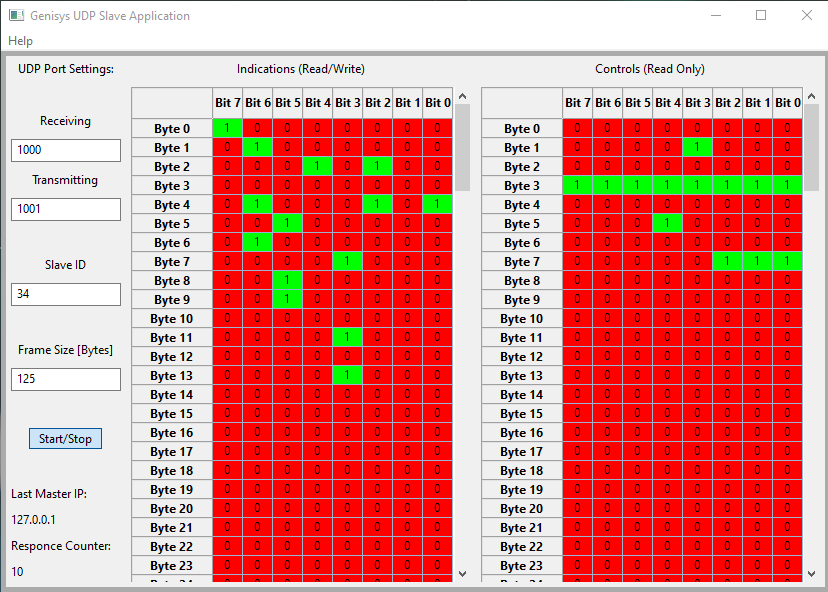
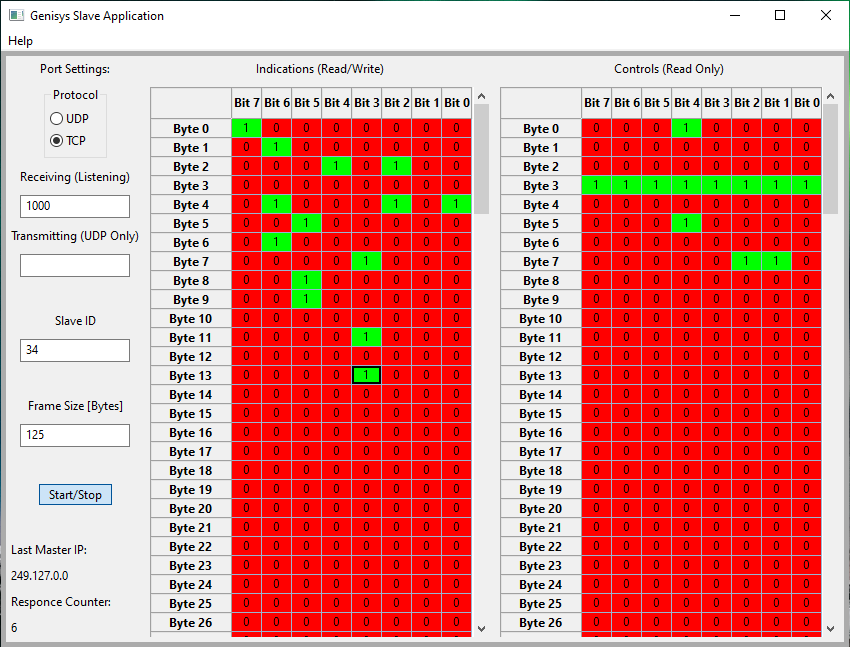
Added new TCP server lib functions to simulator GUI app. Basic testing of new TCP server logic (Tests were good), Fixed small bugs with TCP logic, Updated unit test app with TCP option (Unit test app not tested). Updated readme with new TCP information.

diff --git a/GenisysSlave-Lib/src/NetworkGenisysSlave.cpp b/GenisysSlave-Lib/src/NetworkGenisysSlave.cpp
@@ -17,6 +17,7 @@ namespace LSY
 		// WSA
 		is_wsa_started_ = false;
 		server_socket_ = INVALID_SOCKET;
+		client_socket_ = INVALID_SOCKET;
 
 		// Buffer
 		bytes_received = 0;
@@ -92,7 +93,7 @@ namespace LSY
 		{
 			// Put the TCP socket into listen mode
 			// backlog = 1 means the socket will only listin for one connection
-			if (listen(server_socket_, 1))
+			if (listen(server_socket_, 0))
 			{
 				Logging::LogErrorF("NetworkGenisysSlave::StartServer: [%d] Socket Listen Failed", configuration_.server_port_);
 				LogWSAError();
@@ -132,12 +133,9 @@ namespace LSY
 			return false;
 		}
 
-
-
-		static SOCKET client_socket_ = INVALID_SOCKET;		// For TCP use only
+		
 		struct sockaddr_in sender_addr;						// Used to store remote machines address
 		int sender_addr_size = sizeof(sender_addr);
-
 
 
 		if (configuration_.connection_type_ == NetworkGenisysSlave::Config::CONNECTIONTYPE::TCP)
@@ -154,6 +152,14 @@ namespace LSY
 			{
 				return false;
 			}
+
+			// Check if there are any additional pending connections & reject the socket
+			// We reject the socket because we will only accept one connection at a time for now
+			SOCKET temp_socket_ = INVALID_SOCKET;
+			temp_socket_ = accept(server_socket_, nullptr, nullptr);
+			if (temp_socket_ != INVALID_SOCKET)
+				closesocket(temp_socket_);
+
 
 			// Get TCP Message From Sender (Genisys Master)
 			// Add a client timeout code check here, if data not recived for a while?
@@ -284,10 +290,21 @@ namespace LSY
 			if (closesocket(server_socket_) == SOCKET_ERROR)
 			{
 				// Error - Unable To Close Socket
-				Logging::LogErrorF("NetworkGenisysSlave::ShutdownServer: [%d] Unable To Close Socket", configuration_.server_port_);
+				Logging::LogErrorF("NetworkGenisysSlave::ShutdownServer: [%d] Unable To Close Server Socket", configuration_.server_port_);
 				LogWSAError();
 			}
 			server_socket_ = INVALID_SOCKET;
+		}
+
+		if (client_socket_ != INVALID_SOCKET)
+		{
+			if (closesocket(client_socket_) == SOCKET_ERROR)
+			{
+				// Error - Unable To Close Socket
+				Logging::LogErrorF("NetworkGenisysSlave::ShutdownServer: [%d] Unable To Close Client TCP Socket", configuration_.server_port_);
+				LogWSAError();
+			}
+			client_socket_ = INVALID_SOCKET;
 		}
 
 

diff --git a/GenisysSlave-Simulator/cFrame.cpp b/GenisysSlave-Simulator/cFrame.cpp
@@ -30,22 +30,24 @@ cFrame::cFrame( wxWindow* parent, wxWindowID id, const wxString& title, const wx
 	wxBoxSizer* bSizer7;
 	bSizer7 = new wxBoxSizer( wxVERTICAL );
 
-	m_staticText4 = new wxStaticText( m_panel1, wxID_ANY, wxT("UDP Port Settings:"), wxDefaultPosition, wxDefaultSize, 0 );
+	m_staticText4 = new wxStaticText( m_panel1, wxID_ANY, wxT("Port Settings:"), wxDefaultPosition, wxDefaultSize, 0 );
 	m_staticText4->Wrap( -1 );
 	bSizer7->Add( m_staticText4, 0, wxALIGN_CENTER|wxALL, 5 );
 
-	m_staticText7 = new wxStaticText( m_panel1, wxID_ANY, wxEmptyString, wxDefaultPosition, wxDefaultSize, 0 );
-	m_staticText7->Wrap( -1 );
-	bSizer7->Add( m_staticText7, 0, wxALIGN_CENTER|wxALL, 5 );
+	wxString m_radioBox1Choices[] = { wxT("UDP"), wxT("TCP") };
+	int m_radioBox1NChoices = sizeof( m_radioBox1Choices ) / sizeof( wxString );
+	m_radioBox1 = new wxRadioBox( m_panel1, wxID_ANY, wxT("Protocol"), wxDefaultPosition, wxDefaultSize, m_radioBox1NChoices, m_radioBox1Choices, 1, wxRA_SPECIFY_COLS );
+	m_radioBox1->SetSelection( 0 );
+	bSizer7->Add( m_radioBox1, 0, wxALIGN_CENTER|wxALL, 5 );
 
-	m_staticText2 = new wxStaticText( m_panel1, wxID_ANY, wxT("Receiving"), wxDefaultPosition, wxDefaultSize, 0 );
+	m_staticText2 = new wxStaticText( m_panel1, wxID_ANY, wxT("Receiving (Listening)"), wxDefaultPosition, wxDefaultSize, 0 );
 	m_staticText2->Wrap( -1 );
 	bSizer7->Add( m_staticText2, 0, wxALIGN_CENTER|wxALL, 5 );
 
 	m_textUDPrx = new wxTextCtrl( m_panel1, wxID_ANY, wxEmptyString, wxDefaultPosition, wxDefaultSize, 0 );
 	bSizer7->Add( m_textUDPrx, 0, wxALIGN_CENTER|wxALL, 5 );
 
-	m_staticText3 = new wxStaticText( m_panel1, wxID_ANY, wxT("Transmitting"), wxDefaultPosition, wxDefaultSize, 0 );
+	m_staticText3 = new wxStaticText( m_panel1, wxID_ANY, wxT("Transmitting (UDP Only)"), wxDefaultPosition, wxDefaultSize, 0 );
 	m_staticText3->Wrap( -1 );
 	bSizer7->Add( m_staticText3, 0, wxALIGN_CENTER|wxALL, 5 );
 

diff --git a/GenisysSlave-Simulator/cEvents.cpp b/GenisysSlave-Simulator/cEvents.cpp
@@ -218,12 +218,23 @@ bool cEvents::StartupGenisysNetwork()
 		return false;
 	}
 
+
+	// Radio button "1" is "TCP"
+	// Note: We could use "m_radioBox1->GetString()" to confirm the choice strings. 
+	bool is_tcp = false;
+	if (m_radioBox1->GetSelection() == 1)
+		is_tcp = true;
+
+
 	// Get Parameters From GUI
 	bool int_check = true;
-	int_check = int_check && m_textUDPrx->GetValue().ToInt(&udp_rx_port_);					// Get UDP Reciving Port
-	int_check = int_check && m_textUDPtx->GetValue().ToInt(&udp_tx_port_);					// Get UPD Transmit Port
+	int_check = int_check && m_textUDPrx->GetValue().ToInt(&udp_rx_port_);					// Get Reciving/Listening Port
+	if (!is_tcp)
+		int_check = int_check && m_textUDPtx->GetValue().ToInt(&udp_tx_port_);				// Get Transmit Port (UDP Only)
 	int_check = int_check && m_textSlaveID->GetValue().ToInt(&genisys_slave_id_);			// Get Genisys Slave ID
 	int_check = int_check && m_textFrameSize->GetValue().ToInt(&genisys_frame_size_);		// Get Genisys Frame Size
+
+
 
 	if (int_check == false)
 	{
@@ -279,6 +290,11 @@ bool cEvents::StartupGenisysNetwork()
 	NetworkGenisysSlave::Config network_config_;
 	network_config_.server_port_ = udp_rx_port_;
 	network_config_.destination_port_ = udp_tx_port_;
+	if (is_tcp)
+		network_config_.connection_type_ = NetworkGenisysSlave::Config::CONNECTIONTYPE::TCP;
+	else
+		network_config_.connection_type_ = NetworkGenisysSlave::Config::CONNECTIONTYPE::UDP;
+
 	network_ = std::make_shared<NetworkGenisysSlave>(network_config_);
 	if (!network_->AddProtocol(protocol_))
 	{

diff --git a/GenisysSlave-UnitTests/GenisysSlave-UnitTests.cpp b/GenisysSlave-UnitTests/GenisysSlave-UnitTests.cpp
@@ -15,6 +15,8 @@ using namespace std::chrono_literals;
 using namespace LSY;
 
 
+// Event Callback Functions
+void EventCallback(std::string table_name, LSY::DataFrame::CALLBACKEVENT event_type);
 
 // Logging Functions
 bool LogDebug(const std::string& log_msg);
@@ -45,11 +47,17 @@ int main()
 	uint8_t slave_id	= 34;		// Hex 22
 	uint16_t port_rx	= 7169;
 	uint16_t port_tx	= 7170;
+	bool is_tcp			= false;
 
 	Logging::LogInfoF("Num Bytes [%d]", num_bytes);
 	Logging::LogInfoF("Slave ID  [%d]", slave_id);
 	Logging::LogInfoF("Port RX   [%d]", port_rx);
 	Logging::LogInfoF("Port TX   [%d]", port_tx);
+	if (is_tcp)
+		Logging::LogInfoF("Port TYPE   [TCP]");
+	else
+		Logging::LogInfoF("Port TYPE   [UDP]");
+	
 
 	// Data Frame Setup
 	std::shared_ptr<DataFrame> data_ind = std::make_shared<DataFrame>("Genisys Slave 1 Indications", num_bytes);
@@ -69,6 +77,12 @@ int main()
 	NetworkGenisysSlave::Config network_config;
 	network_config.server_port_ = port_rx;
 	network_config.destination_port_ = port_tx;
+	if (is_tcp)
+		network_config.connection_type_ = NetworkGenisysSlave::Config::CONNECTIONTYPE::TCP;
+	else
+		network_config.connection_type_ = NetworkGenisysSlave::Config::CONNECTIONTYPE::UDP;
+
+
 
 	// Network Setup
 	NetworkGenisysSlave network(network_config);

diff --git a/GenisysSlave-Simulator/cFrame.h b/GenisysSlave-Simulator/cFrame.h
@@ -15,6 +15,7 @@
 #include <wx/font.h>
 #include <wx/colour.h>
 #include <wx/settings.h>
+#include <wx/radiobox.h>
 #include <wx/textctrl.h>
 #include <wx/tglbtn.h>
 #include <wx/bitmap.h>
@@ -39,7 +40,7 @@ class cFrame : public wxFrame
 	protected:
 		wxPanel* m_panel1;
 		wxStaticText* m_staticText4;
-		wxStaticText* m_staticText7;
+		wxRadioBox* m_radioBox1;
 		wxStaticText* m_staticText2;
 		wxTextCtrl* m_textUDPrx;
 		wxStaticText* m_staticText3;
@@ -74,7 +75,7 @@ class cFrame : public wxFrame
 
 	public:
 
-		cFrame( wxWindow* parent, wxWindowID id = wxID_ANY, const wxString& title = wxT("Genisys UDP Slave Application"), const wxPoint& pos = wxDefaultPosition, const wxSize& size = wxSize( 845,600 ), long style = wxDEFAULT_FRAME_STYLE|wxTAB_TRAVERSAL );
+		cFrame( wxWindow* parent, wxWindowID id = wxID_ANY, const wxString& title = wxT("Genisys Slave Application"), const wxPoint& pos = wxDefaultPosition, const wxSize& size = wxSize( 864,655 ), long style = wxDEFAULT_FRAME_STYLE|wxTAB_TRAVERSAL );
 
 		~cFrame();
 

diff --git a/GenisysSlave-Lib/include/NetworkGenisysSlave.h b/GenisysSlave-Lib/include/NetworkGenisysSlave.h
@@ -33,7 +33,7 @@ namespace LSY
 			};
 
 			uint16_t server_port_ = 0;
-			uint16_t destination_port_ = 0;
+			uint16_t destination_port_ = 0;	// For UDP Only
 			// if 0 the Genisys slave will respond to master on the same port the master used to send a UDP message from
 
 			CONNECTIONTYPE connection_type_ = CONNECTIONTYPE::UDP;
@@ -47,6 +47,7 @@ namespace LSY
 		bool is_wsa_started_;
 		WSADATA wsa_data;
 		SOCKET server_socket_;
+		SOCKET client_socket_;		// For TCP use only
 
 		// Buffers
 		int bytes_received;

diff --git a/GenisysSlave-Lib/include/GenisysSlave-Lib-Version.h b/GenisysSlave-Lib/include/GenisysSlave-Lib-Version.h
@@ -2,4 +2,4 @@
 
 #include <string>
 
-const char genisys_slave_lib_version[] = "0.3.0.5";
+const char genisys_slave_lib_version[] = "0.4.0.6";

diff --git a/GenisysSlave-Simulator/Version.h b/GenisysSlave-Simulator/Version.h
@@ -2,4 +2,4 @@
 
 #include <string>
 
-const char version[] = "0.2.1.5";
+const char version[] = "0.3.0.6";

diff --git a/README.md b/README.md
@@ -12,7 +12,7 @@ Genisys uses event based polling and MODBUS uses full frame polling.
 
 ## About The Project
 
-**GenisysSlave-Simulator:** A Microsoft Windows application the allows a user to simulate a Genisys UDP slave device over a IP network.
+**GenisysSlave-Simulator:** A Microsoft Windows application the allows a user to simulate a Genisys slave device over a IP network.
 This application may be useful to SCADA developers that need to connect to a 
 Genisys slave device without having a physical device.
 
@@ -26,7 +26,10 @@ Should be used for rudimentary testing purposes only.
 
 Download the latest version of "GenisysSlave-Simulator" from the **Releases** page.
 
-**Receiving:** Is the local UDP port number the application is listening on.
+**Protocol:** Is the layer 4 protocol (UDP/TCP) that the application is using.
+Note: The TCP server (slave) will only accept 1 TCP client (master) connection at a time. 
+
+**Receiving:** Is the local UDP/TCP port number the application is listening on.
 
 **Transmitting:** Is the port the Genisys master is listening on.
 
@@ -47,7 +50,6 @@ Server must be stoped and restarted to register the updates.
 
 
 ## Limitations
-- UDP only (RS232 and TCP to be designed)
 - Genisys Slave/Server only (Genisys Master/Client to be designed)
 - CRC checksums are not currently validated (They can be anything and still pass)
 - LSY::DataFrame objects are not currently thread safe. These objects will be used by the Genisys lib and by user code, so they should be thread safe.
@@ -55,7 +57,8 @@ Server must be stoped and restarted to register the updates.
 
 ## Known Issues
 - The library can't handle alot of messages for different slave IDs hosted on the same UDP port. This can likely be fixed by improving byte buffer processing.
-- Multiple Genisys masters polling the same Genisys slave may lead to sync issues.
+- Multiple Genisys masters polling the same Genisys UDP slave may lead to sync issues.
+- Only one Genisys master (TCP Client) can connect to the simulator when in TCP mode.
 
 
 ## License
